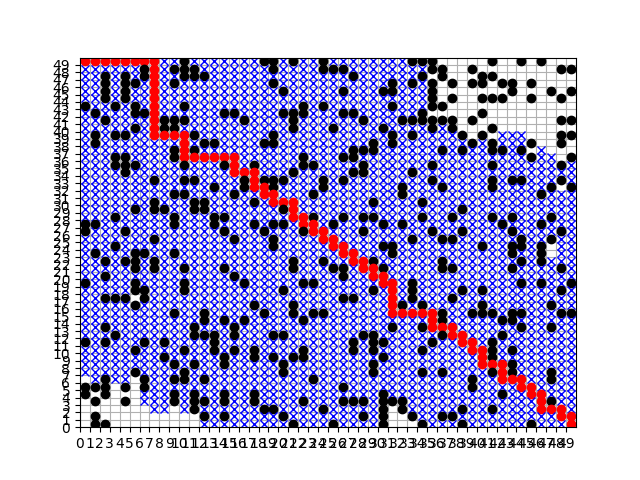
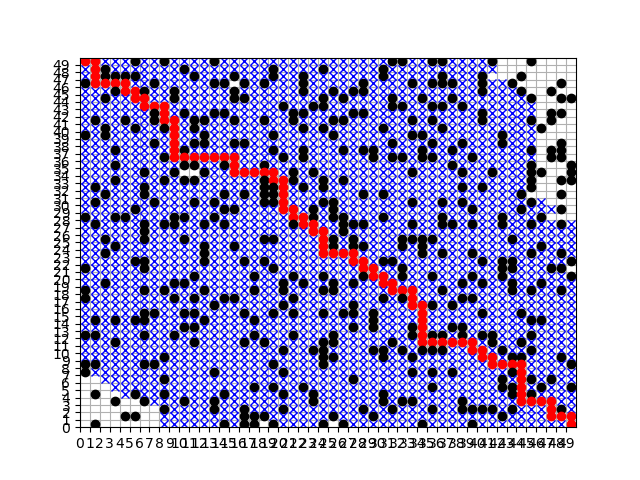
everything complete

diff --git a/Part2/hard_maze.py b/Part2/hard_maze.py
@@ -31,7 +31,7 @@ def mutate_children(child, GRIDSIZE):
 
     return child;
 
-def find_hard_maze(maze_1, maze_2, GRIDSIZE, cost_1, cost_2, cost_type, algo_type):
+def find_hard_maze(maze_1, maze_2, GRIDSIZE, cost_1, cost_2, cost_type, algo_type, run):
     ##cost_type can have three values
     #0 is for explored_nodes
     #1 is for path length
@@ -114,11 +114,14 @@ def find_hard_maze(maze_1, maze_2, GRIDSIZE, cost_1, cost_2, cost_type, algo_typ
         _, path_1, visited_1, _ = solveDFS(cur_max_child);
     
     if algo_type <= 1:
-        plot(solved_child_1, GRIDSIZE, 'max_child_'+ str(algo_type) + '_' + str(cost_type) + '.png');
+        plot(solved_child_1, GRIDSIZE, 'max_child_'+ str(algo_type) + '_' + str(cost_type) + \
+            '_' + str(run) + '.png');
     else:
-        plot_v2(cur_max_child, 'max_child_'+ str(algo_type) + '_' + str(cost_type) + '.png', path_1, visited_1);
+        plot_v2(cur_max_child, 'max_child_'+ str(algo_type) + '_' + str(cost_type) + \
+            '_' + str(run) + '.png', path_1, visited_1);
     #plot(solved_child_2, GRIDSIZE, 'child_2.png');
-    print 'Max Cost Child: ', cur_max_cost, ' for algo type: ', algo_type, ' and cost type: ', cost_type;
+    print 'Max Cost Child: ', cur_max_cost, ' for algo type: ', algo_type, ' and cost type: ', cost_type, \
+        'for run: ', run;
     ####bfs and dfs plotting and testing code
     ##bfs
     #_, path_1, visited_1, _ = solveBFS(child_1);
@@ -156,31 +159,31 @@ if __name__ == '__main__':
     ##2 is for bfs
     ##3 is for dfs
     for algo_type in xrange(4):
+        if algo_type == 0:
+            all_costs_1[0], all_costs_1[1], solved_1, all_costs_1[2] = astar(copy_maze(maze_1, GRIDSIZE), GRIDSIZE);
+            all_costs_2[0], all_costs_2[1], solved_2, all_costs_2[2] = astar(copy_maze(maze_2, GRIDSIZE), GRIDSIZE);
+        elif algo_type == 1:
+            all_costs_1[0], all_costs_1[1], solved_1, all_costs_1[2] = astar_man(copy_maze(maze_1, GRIDSIZE), GRIDSIZE);
+            all_costs_2[0], all_costs_2[1], solved_2, all_costs_2[2] = astar_man(copy_maze(maze_2, GRIDSIZE), GRIDSIZE);
+        elif algo_type == 2:
+            all_costs_1[0], all_costs_1[1], visited_1, all_costs_1[2] = solveBFS(maze_1);
+            all_costs_2[0], all_costs_2[1], visited_2, all_costs_2[2] = solveBFS(maze_2);
+        elif algo_type == 3:
+            all_costs_1[0], all_costs_1[1], visited_1, all_costs_1[2] = solveDFS(maze_1);
+            all_costs_2[0], all_costs_2[1], visited_2, all_costs_2[2] = solveDFS(maze_2);
+        
+        if algo_type <= 1:
+            plot(solved_1, GRIDSIZE, 'parent1_' + str(algo_type) + '.png');
+            plot(solved_2, GRIDSIZE, 'parent2_' + str(algo_type) + '.png');
+        else:
+            plot_v2(maze_1, 'parent1_' + str(algo_type) + '.png', all_costs_1[1], visited_1);
+            plot_v2(maze_2, 'parent2_' + str(algo_type) + '.png', all_costs_2[1], visited_2);
+        
+        all_costs_1[1] = len(all_costs_1[1]);
+        all_costs_2[1] = len(all_costs_2[1]);
         for cost_type in xrange(3):
-            if algo_type == 0:
-                all_costs_1[0], all_costs_1[1], solved_1, all_costs_1[2] = astar(copy_maze(maze_1, GRIDSIZE), GRIDSIZE);
-                all_costs_2[0], all_costs_2[1], solved_2, all_costs_2[2] = astar(copy_maze(maze_2, GRIDSIZE), GRIDSIZE);
-            elif algo_type == 1:
-                all_costs_1[0], all_costs_1[1], solved_1, all_costs_1[2] = astar_man(copy_maze(maze_1, GRIDSIZE), GRIDSIZE);
-                all_costs_2[0], all_costs_2[1], solved_2, all_costs_2[2] = astar_man(copy_maze(maze_2, GRIDSIZE), GRIDSIZE);
-            elif algo_type == 2:
-                all_costs_1[0], all_costs_1[1], visited_1, all_costs_1[2] = solveBFS(maze_1);
-                all_costs_2[0], all_costs_2[1], visited_2, all_costs_2[2] = solveBFS(maze_2);
-            elif algo_type == 3:
-                all_costs_1[0], all_costs_1[1], visited_1, all_costs_1[2] = solveDFS(maze_1);
-                all_costs_2[0], all_costs_2[1], visited_2, all_costs_2[2] = solveDFS(maze_2);
-            
-            if algo_type <= 1:
-                plot(solved_1, GRIDSIZE, 'parent1_' + str(algo_type) + '.png');
-                plot(solved_2, GRIDSIZE, 'parent2_' + str(algo_type) + '.png');
-            else:
-                plot_v2(maze_1, 'parent1_' + str(algo_type) + '.png', all_costs_1[1], visited_1);
-                plot_v2(maze_2, 'parent2_' + str(algo_type) + '.png', all_costs_2[1], visited_2);
-            
-            all_costs_1[1] = len(all_costs_1[1]);
-            all_costs_2[1] = len(all_costs_2[1]);
-            print 'Parent\'s Max Cost: ', max(all_costs_1[cost_type], all_costs_2[cost_type]), ' for algo type: ', algo_type, \
-                    ' cost type: ', cost_type;
-
-            find_hard_maze(maze_1, maze_2, GRIDSIZE, all_costs_1[cost_type], all_costs_2[cost_type], cost_type, algo_type);
+            for run in xrange(3):
+                print 'Parent\'s Max Cost: ', max(all_costs_1[cost_type], all_costs_2[cost_type]), ' for algo type: ', algo_type, \
+                        ' cost type: ', cost_type;
+                find_hard_maze(maze_1, maze_2, GRIDSIZE, all_costs_1[cost_type], all_costs_2[cost_type], cost_type, algo_type, run);
     
